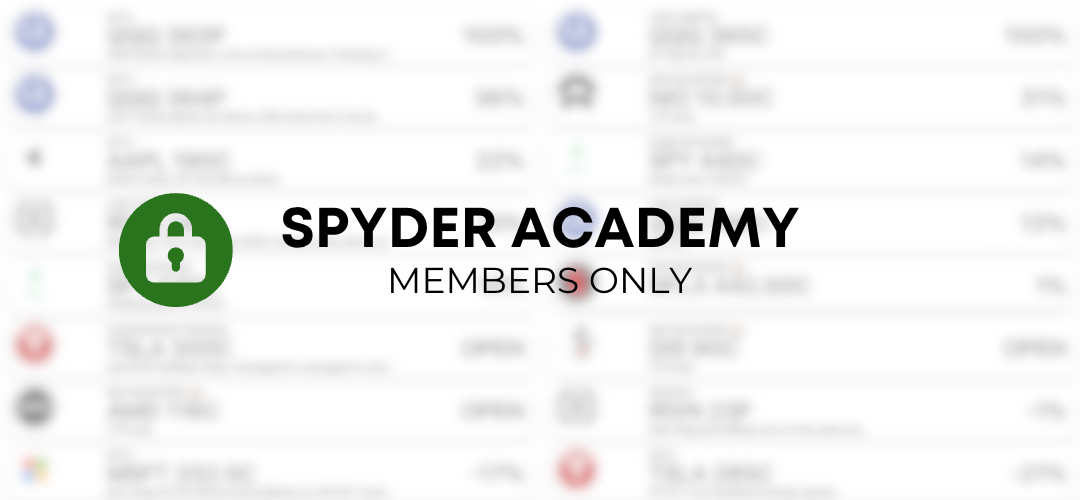
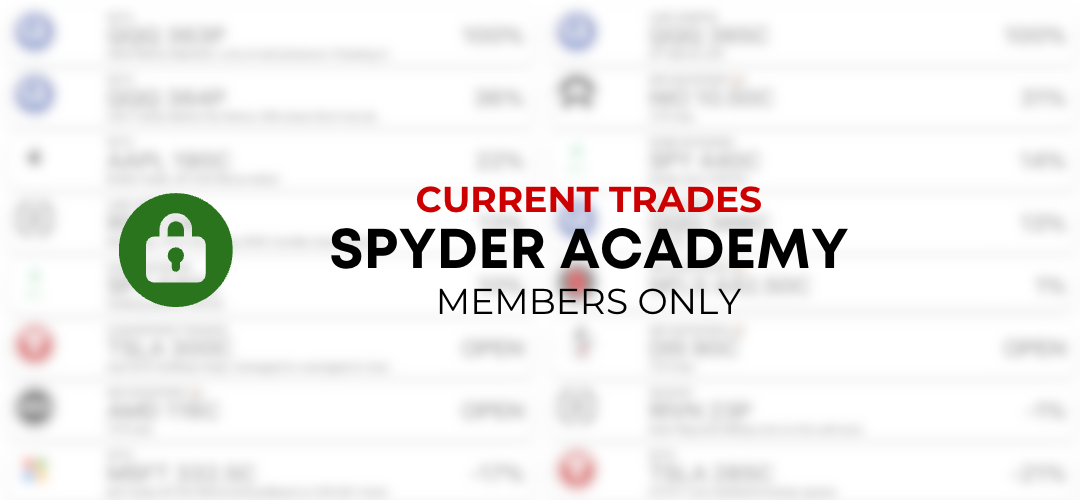
made chart breakdown a member only feature

Changed region(s): [[0.2444, 0.36, 0.7944, 0.63]]

diff --git a/layouts/_default/walled.html b/layouts/_default/walled.html
@@ -182,6 +182,7 @@
                     </div>
                     <div class="tvChartHeader m-4 card shadow border-0 d-none" style="border-radius: 1em;"> </div>
                     <div class="entryExitNotes small lh-1 m-4 p-3 card shadow border-0 d-none" style="border-radius: 1em; background-color: #BFE1CF;"></div>
+                    <div class="membersRecap card shadow border-0 p-3 justify-content-center" style="border-radius: 15px; display: none"> <img src="/images/memberRecaps.png" /> </div>
                 </div>
             </div>
         </div>
@@ -313,7 +314,14 @@
 
 
         function selectContract(el){
-            userTrades.renderTVChart($(el), $(el).attr("tradeid"));
+            if (firebase.auth().currentUser){
+                userTrades.renderTVChart($(el), $(el).attr("tradeid"));
+                $(".membersRecap").hide();
+            }
+            else{
+                $(".membersRecap").hide();
+                $(el).find(".membersRecap").show();
+            }
         }
 
        
